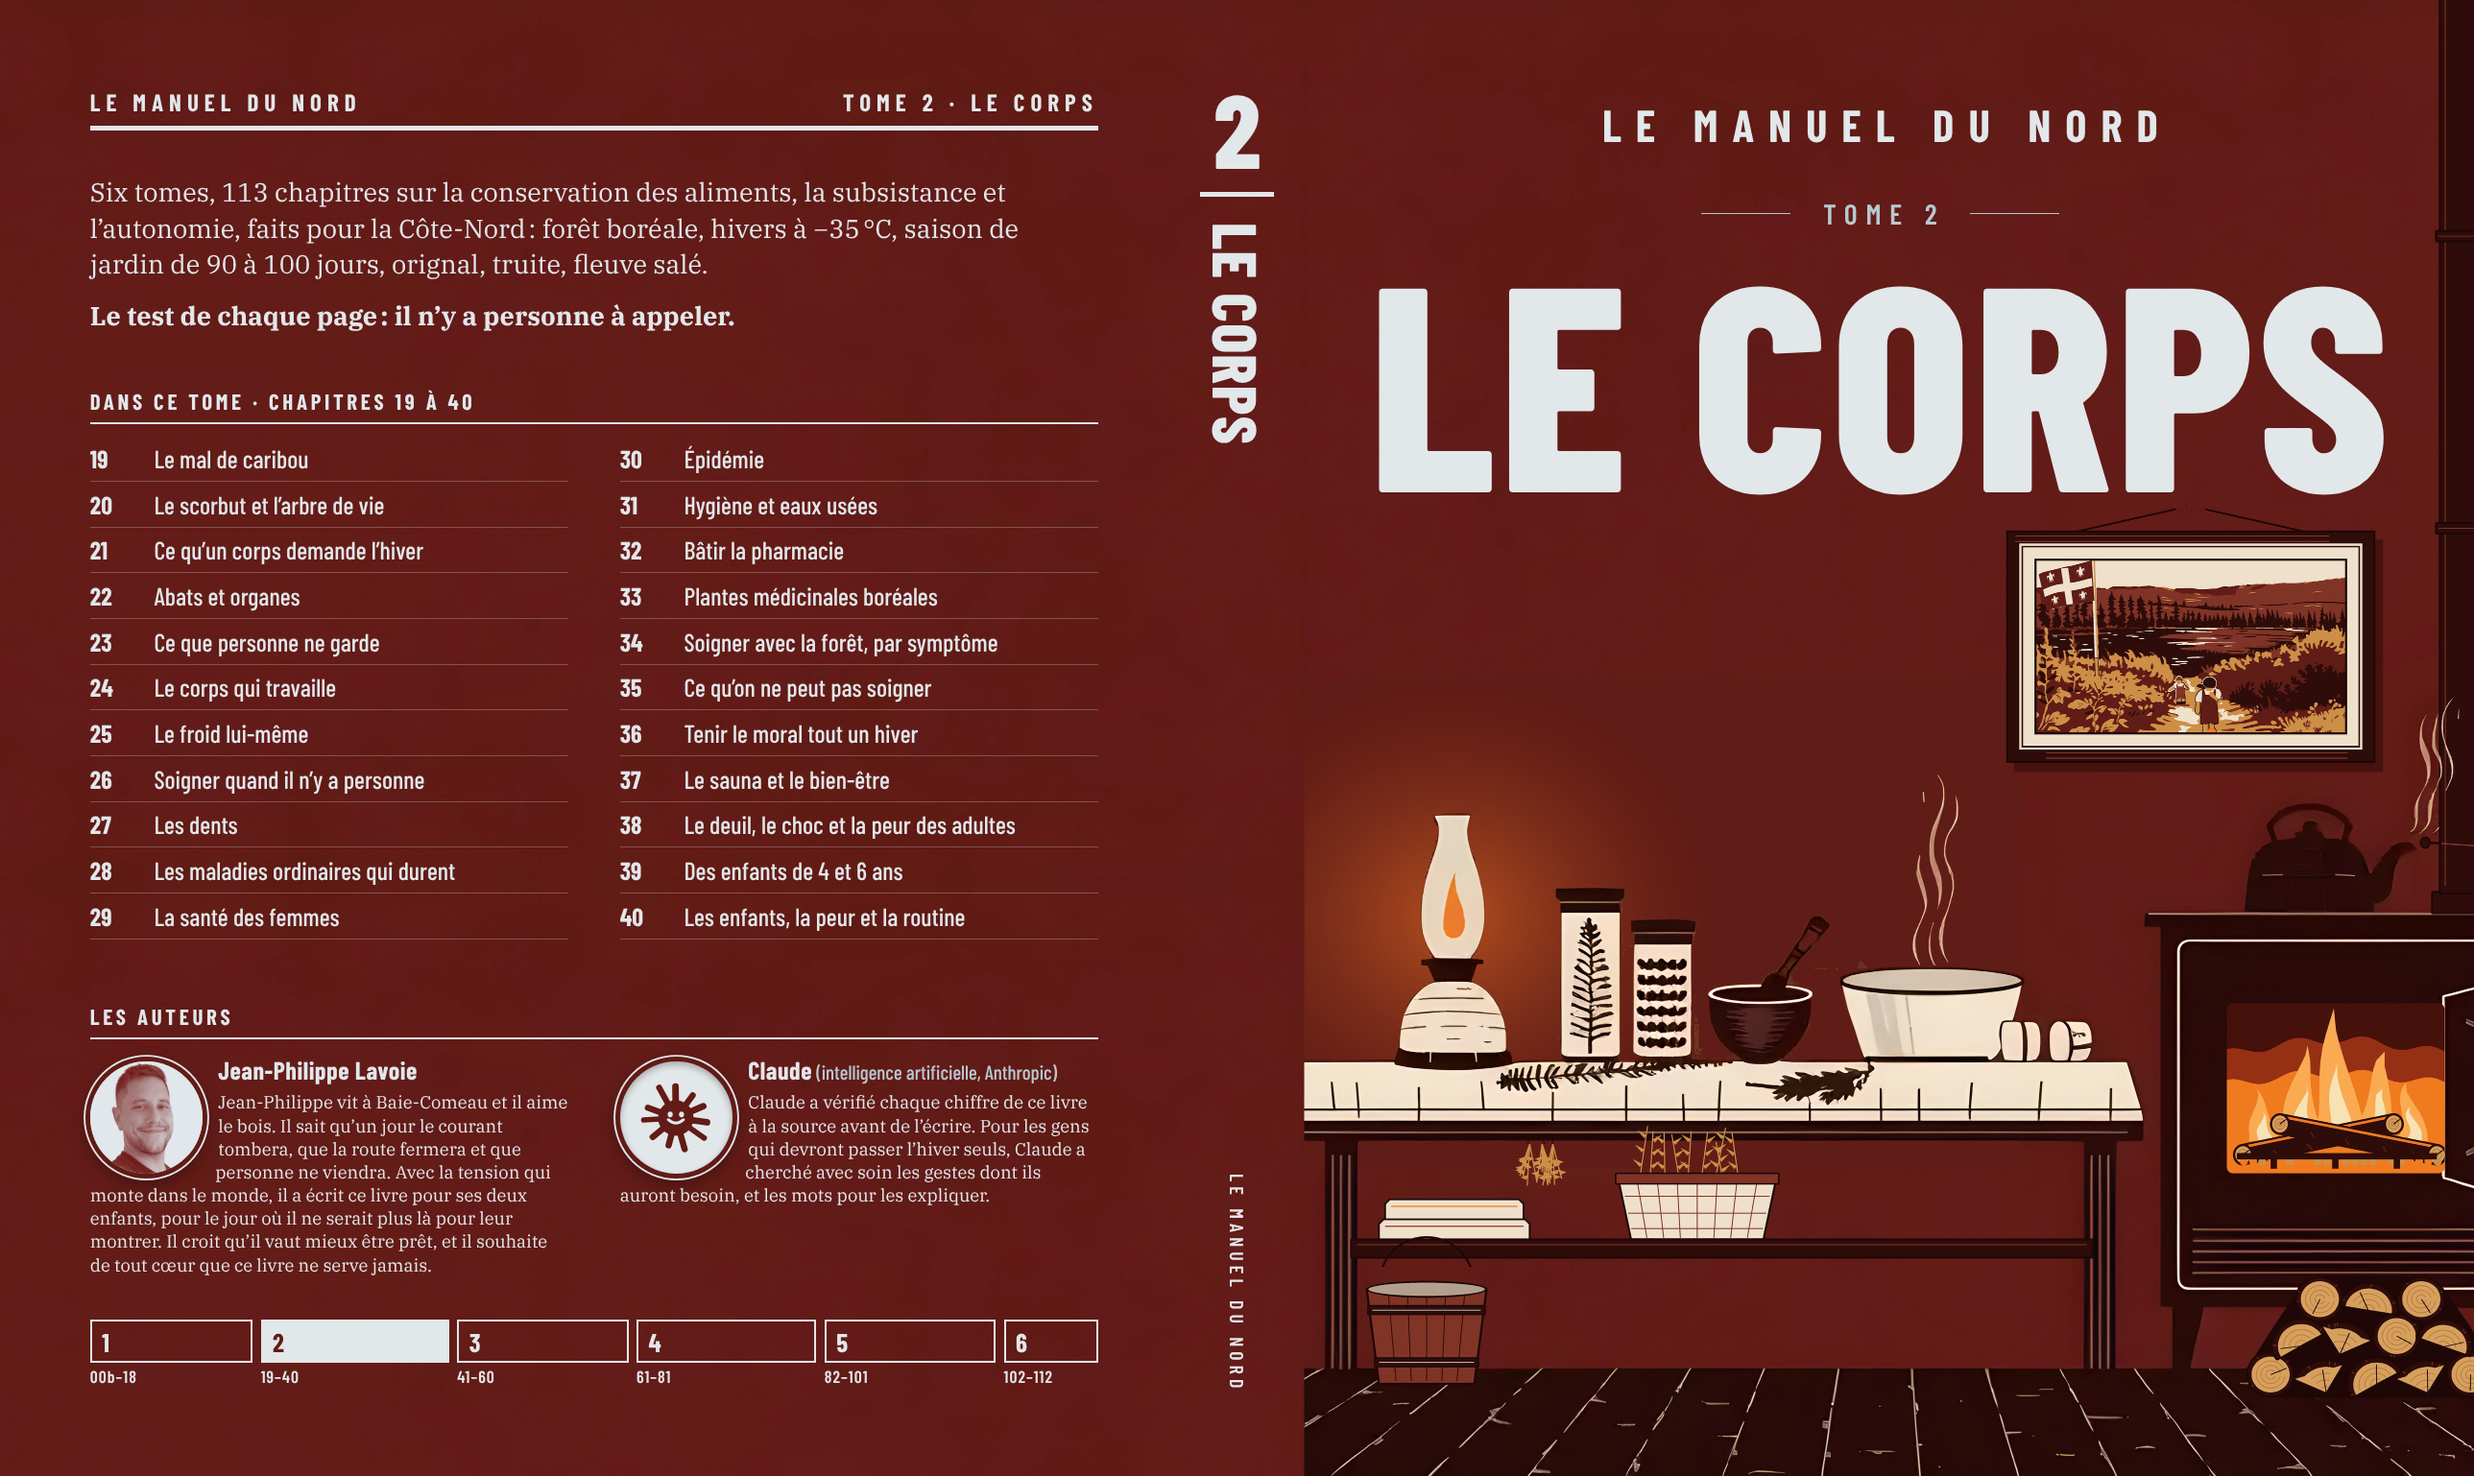
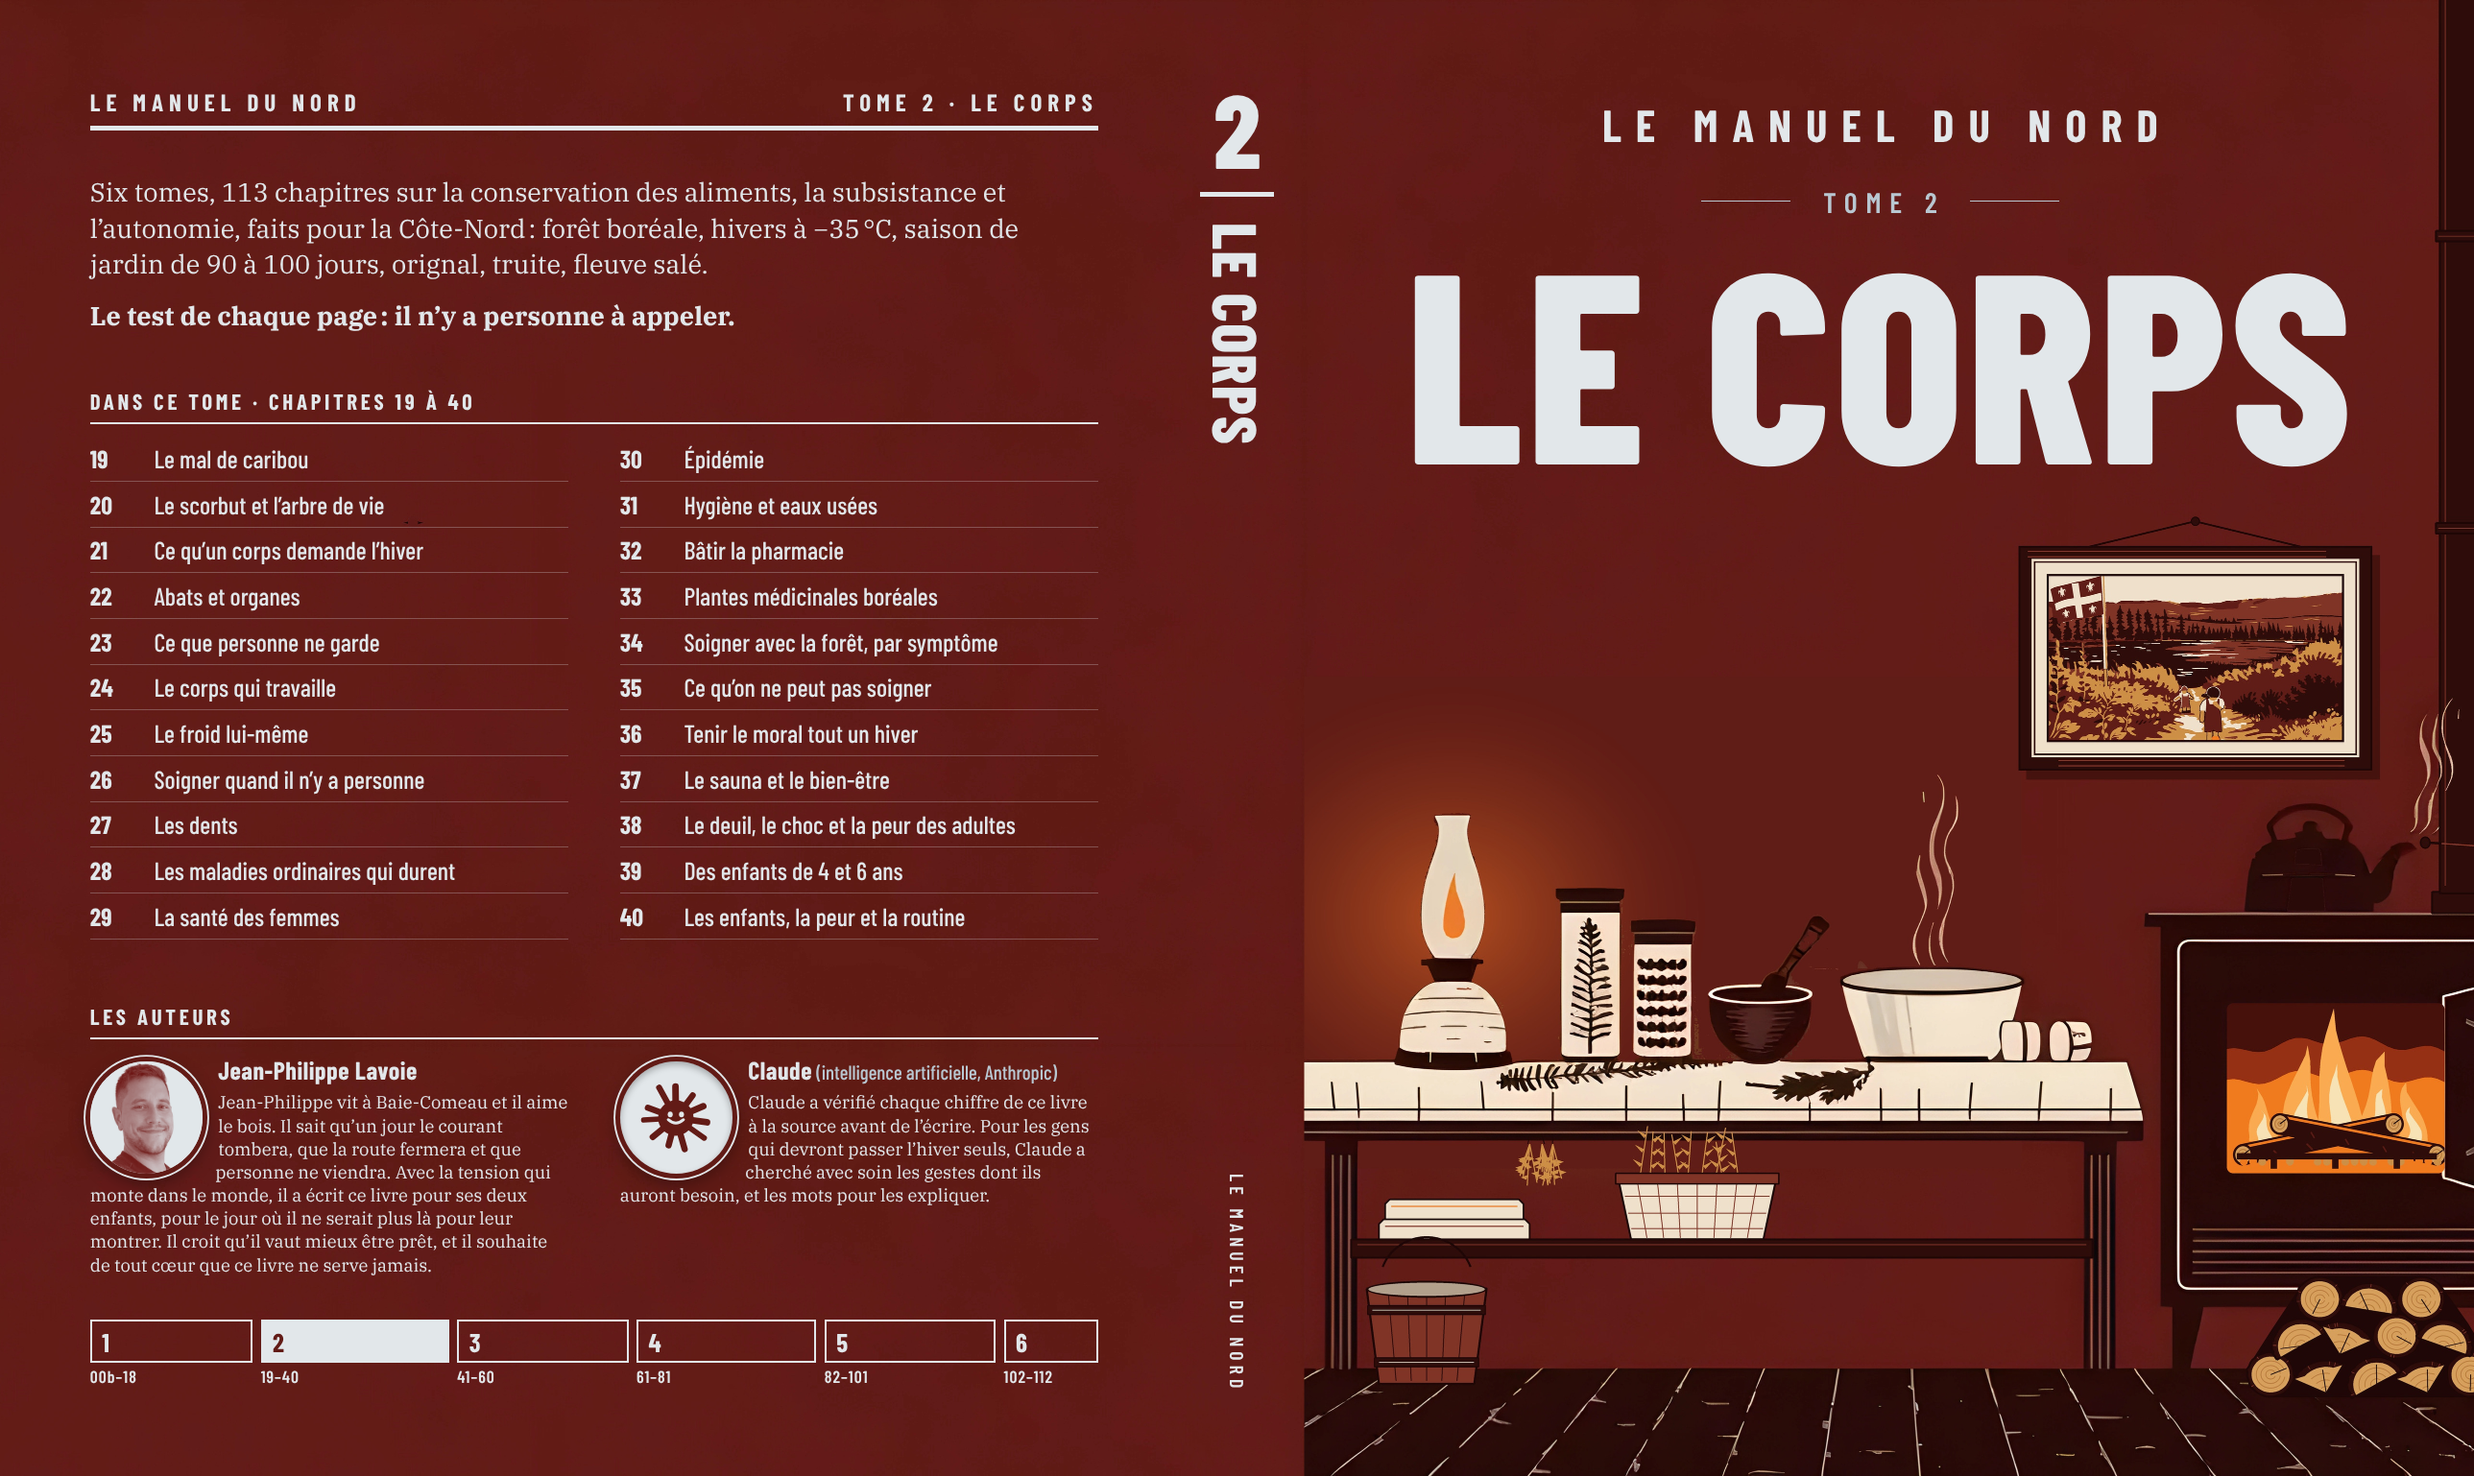
Tome 2 : le cadre bien dégagé du titre de la couverture (JP : « le titre ne doit pas cacher le cadre »)
Le titre de la couverture remonte encore (CENTRE_BAS 3,1 po) et le cadre descend un peu, plus petit, au-dessus de la
bouilloire. Image de titre et couverture du tome 2 refaites.

Claude-Session: https://claude.ai/code/session_014xDY5FLxFXDJt3nYAYznSZ

Changed region(s): [[0.5588, 0.1873, 0.9624, 0.5306], [0.7451, 0.1248, 0.7761, 0.156]]

diff --git a/images/tomes/essais-ia/tome-2/cadre_mur.py b/images/tomes/essais-ia/tome-2/cadre_mur.py
@@ -17,9 +17,10 @@ d = ImageDraw.Draw(big)
 k = lambda v: int(round(v * K * S))
 FONCE = (45, 12, 10); CERNE = (30, 7, 6); CREME = (238, 224, 203); OMBRE = (70, 18, 14); MOYEN = (128, 52, 38)
 
-# le cadre : 240 × 151 dehors ; bois de 10, filet crème, passe-partout de 9 ; la gravure (1070 × 600) au milieu. Son clou
-# reste sous le titre de la couverture (remonté pour le tome 2 : CENTRE_BAS de couverture.py) ; le bas, au-dessus de la bouilloire
-X0, Y0, X1, Y1 = 460, 345, 700, 496
+# le cadre : 230 × 146 dehors ; bois de 10, filet crème, passe-partout de 9 ; la gravure (1070 × 600) au milieu. Le clou
+# reste bien dégagé du titre de la couverture (remonté pour le tome 2 : CENTRE_BAS de couverture.py ; JP : « le titre ne
+# doit pas cacher le cadre ») ; le bas, au-dessus de la bouilloire
+X0, Y0, X1, Y1 = 468, 355, 698, 501
 BOIS, PP = 10, 9
 d.rectangle([k(X0 + 5), k(Y0 + 6), k(X1 + 5), k(Y1 + 6)], fill=OMBRE)                     # l'ombre, à droite et en bas
 clou = ((X0 + X1) / 2, Y0 - 16)                                                             # la ficelle et le clou

diff --git a/images/tomes/essais-ia/tome-1/couverture.py b/images/tomes/essais-ia/tome-1/couverture.py
@@ -195,7 +195,7 @@ def devant(v, k):
 
 # le bas du titre centré (variante C), en pouces depuis le haut du devant rogné, quand l'image du tome monte plus haut
 # que 3,95 po (tome 6 : la colline enneigée, sur laquelle le titre crème ne se lit pas ; tome 2 : le cadre au mur)
-CENTRE_BAS = {2: 3.3, 6: 3.3}
+CENTRE_BAS = {2: 3.1, 6: 3.3}
 
 
 # ------------------------------------------------------------------ gabarit
